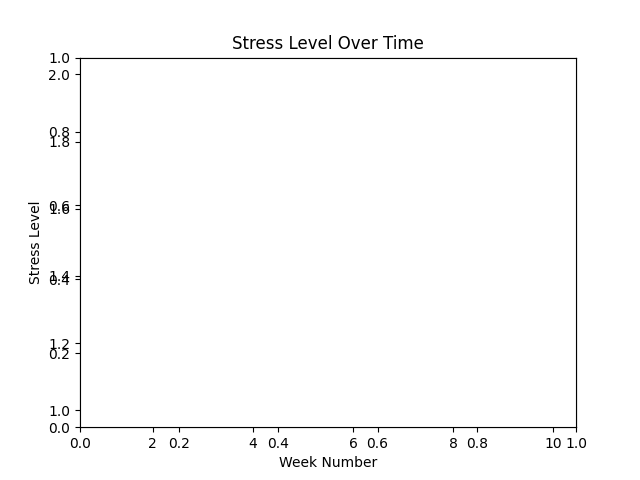
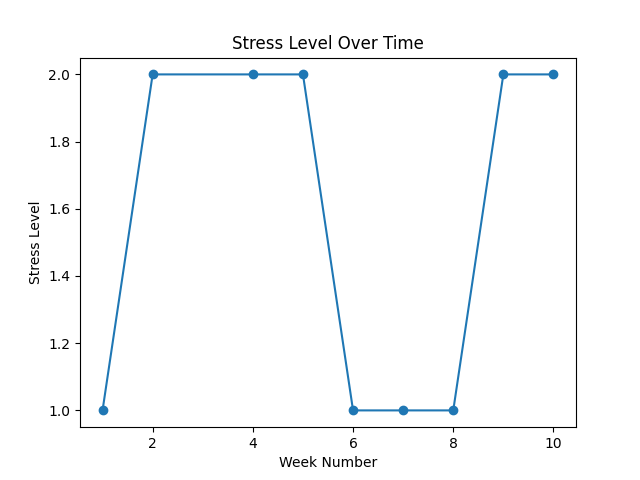
CRUD Integration DONE!

diff --git a/src/base/ui/app.py b/src/base/ui/app.py
@@ -8,6 +8,8 @@ from repository.student_repo import Student_Repo
 from  entity.student import Student
 from services.student_service import Student_Service
 from repository.wellbeing_surveys_repo import Wellbeing_Survey_Repo
+import matplotlib.pyplot as plt
+import os
 
 app = Flask(__name__)
 app.secret_key = "secret123"
@@ -31,8 +33,7 @@ def login():
        if user.password != password:
            return render_template("login.html", error="Incorrect password")
        # -------------------------
-       # ✅ STORE SESSION VALUES
-       # -------------------------
+    
        session["user_id"] = user.id
        session["username"] = user.username
        # Convert numeric role_id → string role (needed for sidebar)
@@ -42,9 +43,8 @@ def login():
            session["role"] = "wellbeing"
        elif user.role_id == 2:
            session["role"] = "course_leader"
-       # -------------------------
        # Redirect based on role_id
-       # -------------------------
+
        if user.role_id == 0:
            return redirect(url_for("student_list"))
        elif user.role_id == 1:
@@ -89,7 +89,7 @@ def course_leader_dashboard():
 @app.route("/students")
 def student_list():
    repo = Student_Repo()
-   students = repo.getAllStudent()  # <-- REAL DB DATA
+   students = repo.getAllStudent()  
    return render_template(
        "student_list.html",
        students=students,
@@ -126,19 +126,19 @@ def group_report():
 # ---------------- WELLBEING INDIVIDUAL ----------------
 @app.route("/wellbeing/student/<int:sid>")
 def wellbeing_student_detail(sid):
-   from repository.wellbeing_surveys_repo import Wellbeing_Survey_Repo
-   import matplotlib.pyplot as plt
-   import os
    repo = Wellbeing_Survey_Repo()
+   student = Student_Repo().getStudent(sid)
    surveys = repo.getWellBeingSurveysByStudentID(sid)
    if not surveys:
        return render_template(
            "wellbeing_student_detail.html",
-           student_id=sid,
+           student = student,
            surveys=[],
-           charts=[]
+           charts=[],
+           total_weeks=0,
+           selected_week=None
        )
-   # Convert objects into dicts so UI can use rows["stress_level"]
+   # Convert objects into dicts for HTML
    rows = []
    for s in surveys:
        rows.append({
@@ -176,7 +176,7 @@ def wellbeing_student_detail(sid):
    plt.savefig(sleep_path)
    chart_paths.append("/static/" + os.path.basename(sleep_path))
    plt.close()
-   # 3. Stress vs Sleep Comparison
+   # 3. Stress vs Sleep
    plt.figure()
    plt.scatter(stress, sleep)
    plt.title("Stress vs Sleep")
@@ -186,11 +186,15 @@ def wellbeing_student_detail(sid):
    plt.savefig(comp_path)
    chart_paths.append("/static/" + os.path.basename(comp_path))
    plt.close()
+   # Total weeks = max week value
+   total_weeks = max(weeks)
    return render_template(
        "wellbeing_student_detail.html",
-       student_id=sid,
        surveys=rows,
-       charts=chart_paths
+       charts=chart_paths,
+       student=student,
+       total_weeks=total_weeks,
+       selected_week=None
    )
 # ---------------- COURSE LEADER INDIVIDUAL ----------------
 @app.route("/course-leader/student/<int:sid>")
@@ -299,30 +303,30 @@ def update_student_page():
 # ---------------- DELETE STUDENT ----------------
 @app.route("/delete-student", methods=["GET", "POST"])
 def delete_student_page():
+   # role for sidebar
+   role = session.get("role")
    repo = Student_Repo()
+   success = None
    if request.method == "POST":
-       sid = int(request.form["student_id"])
-       # ✅ Create a minimal Student object for repo
-       student_to_delete = Student(
-           id=sid,
-           first_name="",
-           last_name="",
-           email="",
-           personal_tutor_email="",
-           emergency_contact_name="",
-           emergency_contact_phone="",
+       sid = int(request.form.get("student_id"))
+
+       student = repo.getStudent(sid)
+       if student:
+           deleted = repo.deleteStudent(student)
+           success = deleted
+      
+       students = repo.getAllStudent()
+       return render_template(
+           "delete_student.html",
+           students=students,
+           role=role,
+           success=success
        )
-       deleted = repo.deleteStudent(student_to_delete)
-       # Success alert
-       return redirect(url_for("delete_student_page", success=1))
-   # GET request:
    students = repo.getAllStudent()
-   success = request.args.get("success")
    return render_template(
        "delete_student.html",
        students=students,
-       role=session.get("role"),
-       success=success
+       role=role
    )
 # ---------------- ADD STUDENT ----------------
 

diff --git a/src/base/repository/student_repo.py b/src/base/repository/student_repo.py
@@ -103,7 +103,7 @@ class Student_Repo(Base_Repo):
             Log.warn("deleteStudent failed: student is None")
             return False
         
-        query = "DELETE FROM students WHERE id = ?"
+        query = "DELETE FROM students WHERE student_id = ?"
         self.cursor.execute(query, (student.id,))
         self.conn.commit()
 
